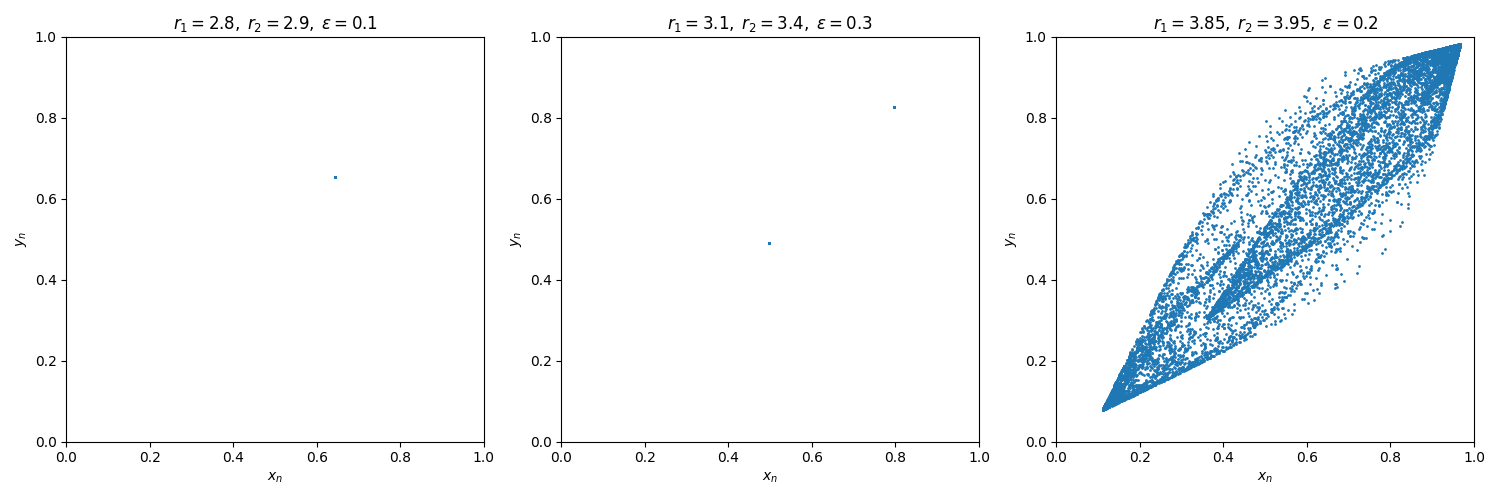
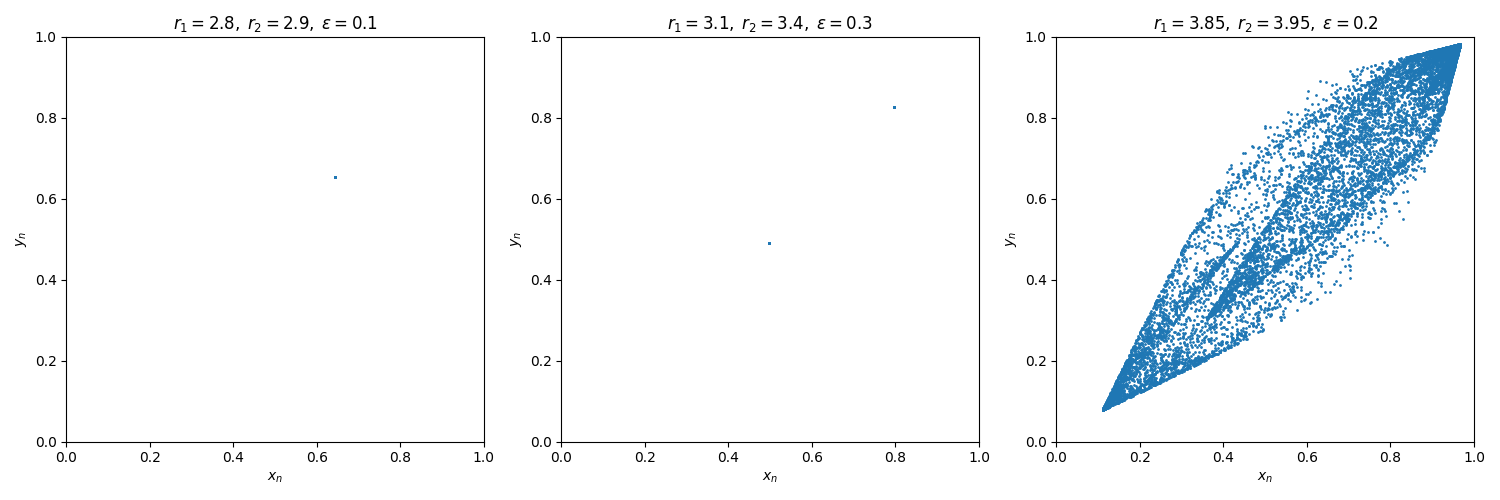
changed plots for phaseport

Changed region(s): [[0.736, 0.12, 0.9813, 0.78]]

diff --git a/src/phasePortrait.py b/src/phasePortrait.py
@@ -18,7 +18,7 @@ PARAM_SETS = [
     (3.85, 3.95, 0.2),  # chaotic regime
 ]
 
-INITIAL_CONDITION = (0.2, 0.3)
+INITIAL_CONDITION = (0.5, 0.5)
 N_TRANSIENT = 500
 N_KEEP = 10000
 
@@ -47,20 +47,23 @@ if __name__ == "__main__":
     x0, y0 = INITIAL_CONDITION
     nSteps = N_TRANSIENT + N_KEEP
 
-    fig, axes = plt.subplots(1, len(PARAM_SETS), figsize=(5 * len(PARAM_SETS), 5))
-
-    for ax, (r1, r2, eps) in zip(axes, PARAM_SETS):
+    for i, (r1, r2, eps) in enumerate(PARAM_SETS):
         x, y = solveOrbit(nSteps, x0, y0, r1, r2, eps)
         x_keep = x[N_TRANSIENT:]
         y_keep = y[N_TRANSIENT:]
 
-        ax.scatter(x_keep, y_keep, s=1)
+        fig, ax = plt.subplots(figsize=(5, 5))
+        if i == 2:
+            ax.scatter(x_keep, y_keep, s=1)
+        else: 
+            ax.scatter(x_keep, y_keep, s=10)
         ax.set_xlabel(r'$x_n$')
         ax.set_ylabel(r'$y_n$')
         ax.set_xlim(0, 1)
         ax.set_ylim(0, 1)
         ax.set_title(fr'$r_1={r1},\; r_2={r2},\; \varepsilon={eps}$')
 
-    fig.tight_layout()
-    plt.savefig(f'./figures/phaseportrait.png')
+        fig.tight_layout()
+        fig.savefig(f'./figures/phaseportrait_{i}.png')
+
     plt.show()
